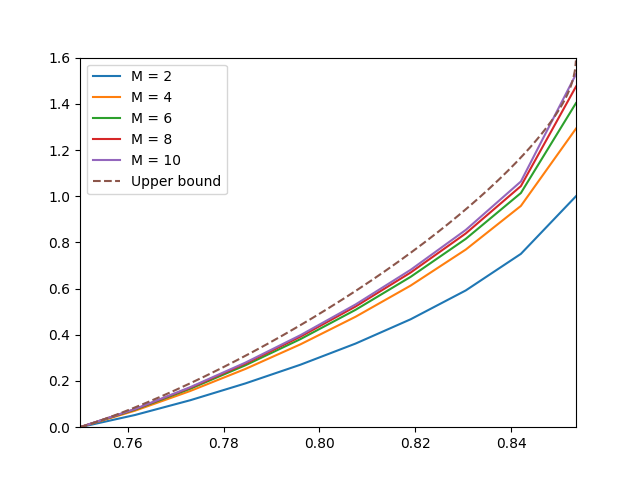
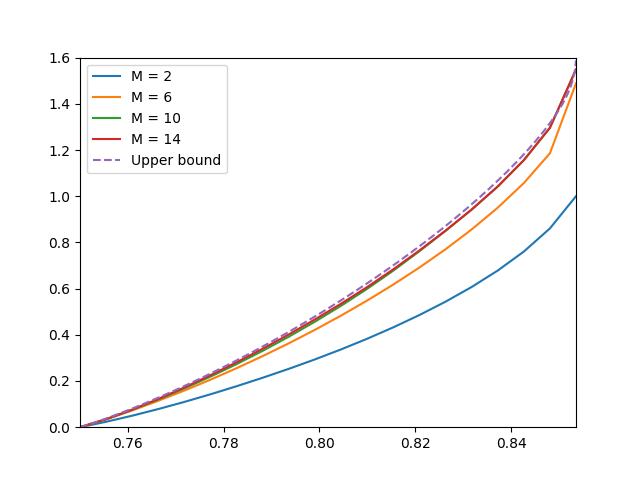
plotted graph for H(AB|E)

diff --git a/graph_plotting.py b/graph_plotting.py
@@ -52,6 +52,8 @@ fr_lin_AB_4 = np.loadtxt("./data/DI-entropy/CHSH/fr_lin_AB_4")
 fr_lin_AB_6 = np.loadtxt("./data/DI-entropy/CHSH/fr_lin_AB_6")
 fr_lin_AB_8 = np.loadtxt("./data/DI-entropy/CHSH/fr_lin_AB_8")
 fr_lin_AB_10 = np.loadtxt("./data/DI-entropy/CHSH/fr_lin_AB_10")
+fr_lin_AB_14 = np.loadtxt("./data/DI-entropy/CHSH/fr_lin_AB_14")
+
 
 ref_AB = np.genfromtxt("./data/DI-entropy/CHSH/roger_global_chsh.csv", delimiter=',')
 
@@ -222,10 +224,9 @@ plt.savefig("./data/DI-entropy/CHSH/kosaki_AB.png")
 """
 
 plt.plot(fr_lin_AB_2[:,0], fr_lin_AB_2[:,1], label = "M = 2")
-plt.plot(fr_lin_AB_4[:,0], fr_lin_AB_4[:,1], label = "M = 4")
 plt.plot(fr_lin_AB_6[:,0], fr_lin_AB_6[:,1], label = "M = 6")
-plt.plot(fr_lin_AB_8[:,0], fr_lin_AB_8[:,1], label = "M = 8")
 plt.plot(fr_lin_AB_10[:,0], fr_lin_AB_10[:,1], label = "M = 10")
+plt.plot(fr_lin_AB_14[:,0], fr_lin_AB_14[:,1], label = "M = 14")
 
 plt.plot(ref_AB[0], ref_AB[1], label = "Upper bound", linestyle = "dashed")
 

diff --git a/chsh_diqkd-AB.py b/chsh_diqkd-AB.py
@@ -29,7 +29,7 @@ def generateXUniform(m):
     X = [(i+1)/m for i in range(m)]
     return X
 
-def generateXHarmonic(m):
+def generateXGeometrique(m):
     X = [1/2 - 1/2**(i+2) for i in range(int(m/2)-1)]
     X += [1/2]
     X += [1/2 + 1/2**(i+2) for i in range(int(m/2)-1)][::-1]
@@ -41,6 +41,10 @@ def generateXNM(m):
     X += [0.5]
     X += [1 - 1/3**(i+1) for i in range(int((m-1)/2))] 
     X += [1.0]
+    return X
+
+def generateXGeo0(m):
+    X = [1/2**i for i in range(m)][::-1]
     return X
 
 def compute_entropyG():
@@ -153,10 +157,10 @@ L = []
 for c_v in np.linspace(0.75, (sqrt(2)+2)/4, 20):
     sdp.process_constraints(momentequalities=score_constraints(c_v))
     ent = -compute_entropyG()
-    #L += [[c_v, ent]]
+    L += [[c_v, ent]]
     print(c_v, ent)
 
-"""
+
 np.savetxt("./data/DI-entropy/CHSH/fr_lin_AB_"+str(M), L)
-"""
+
 
